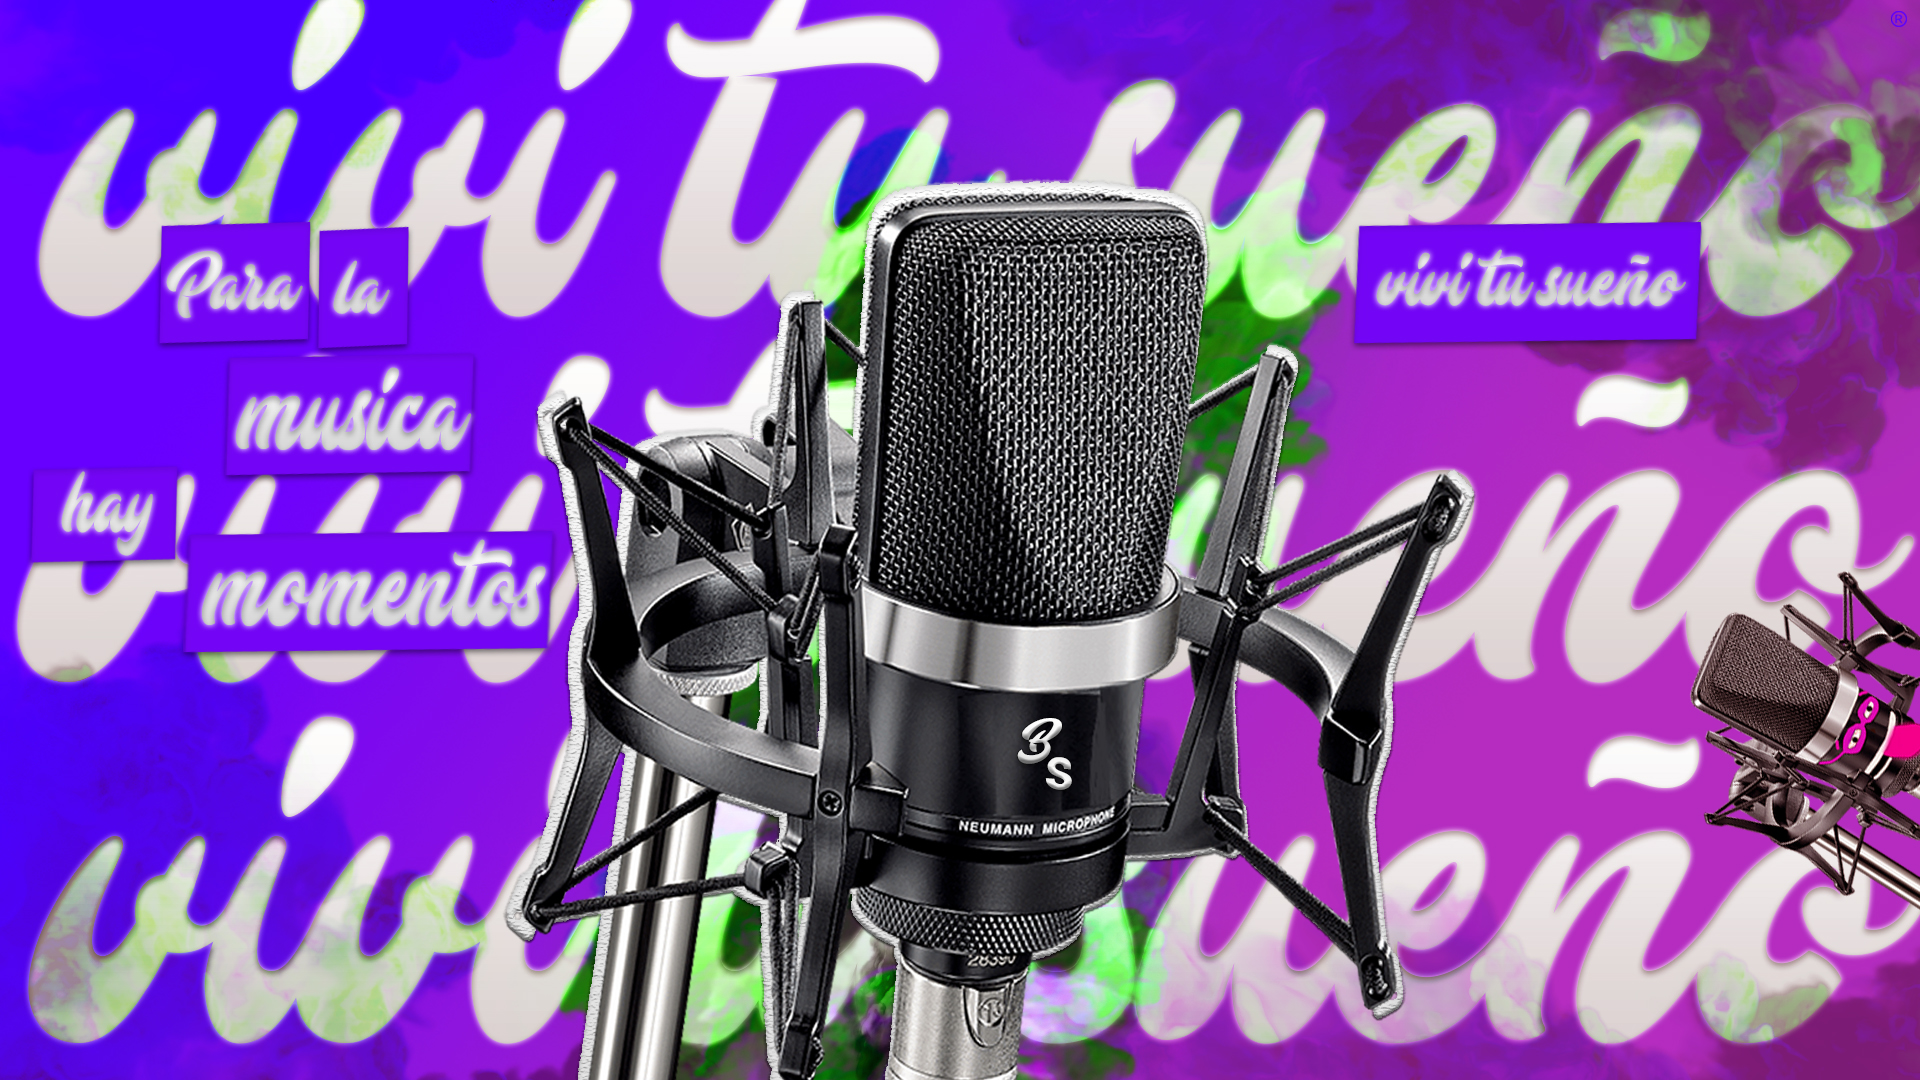
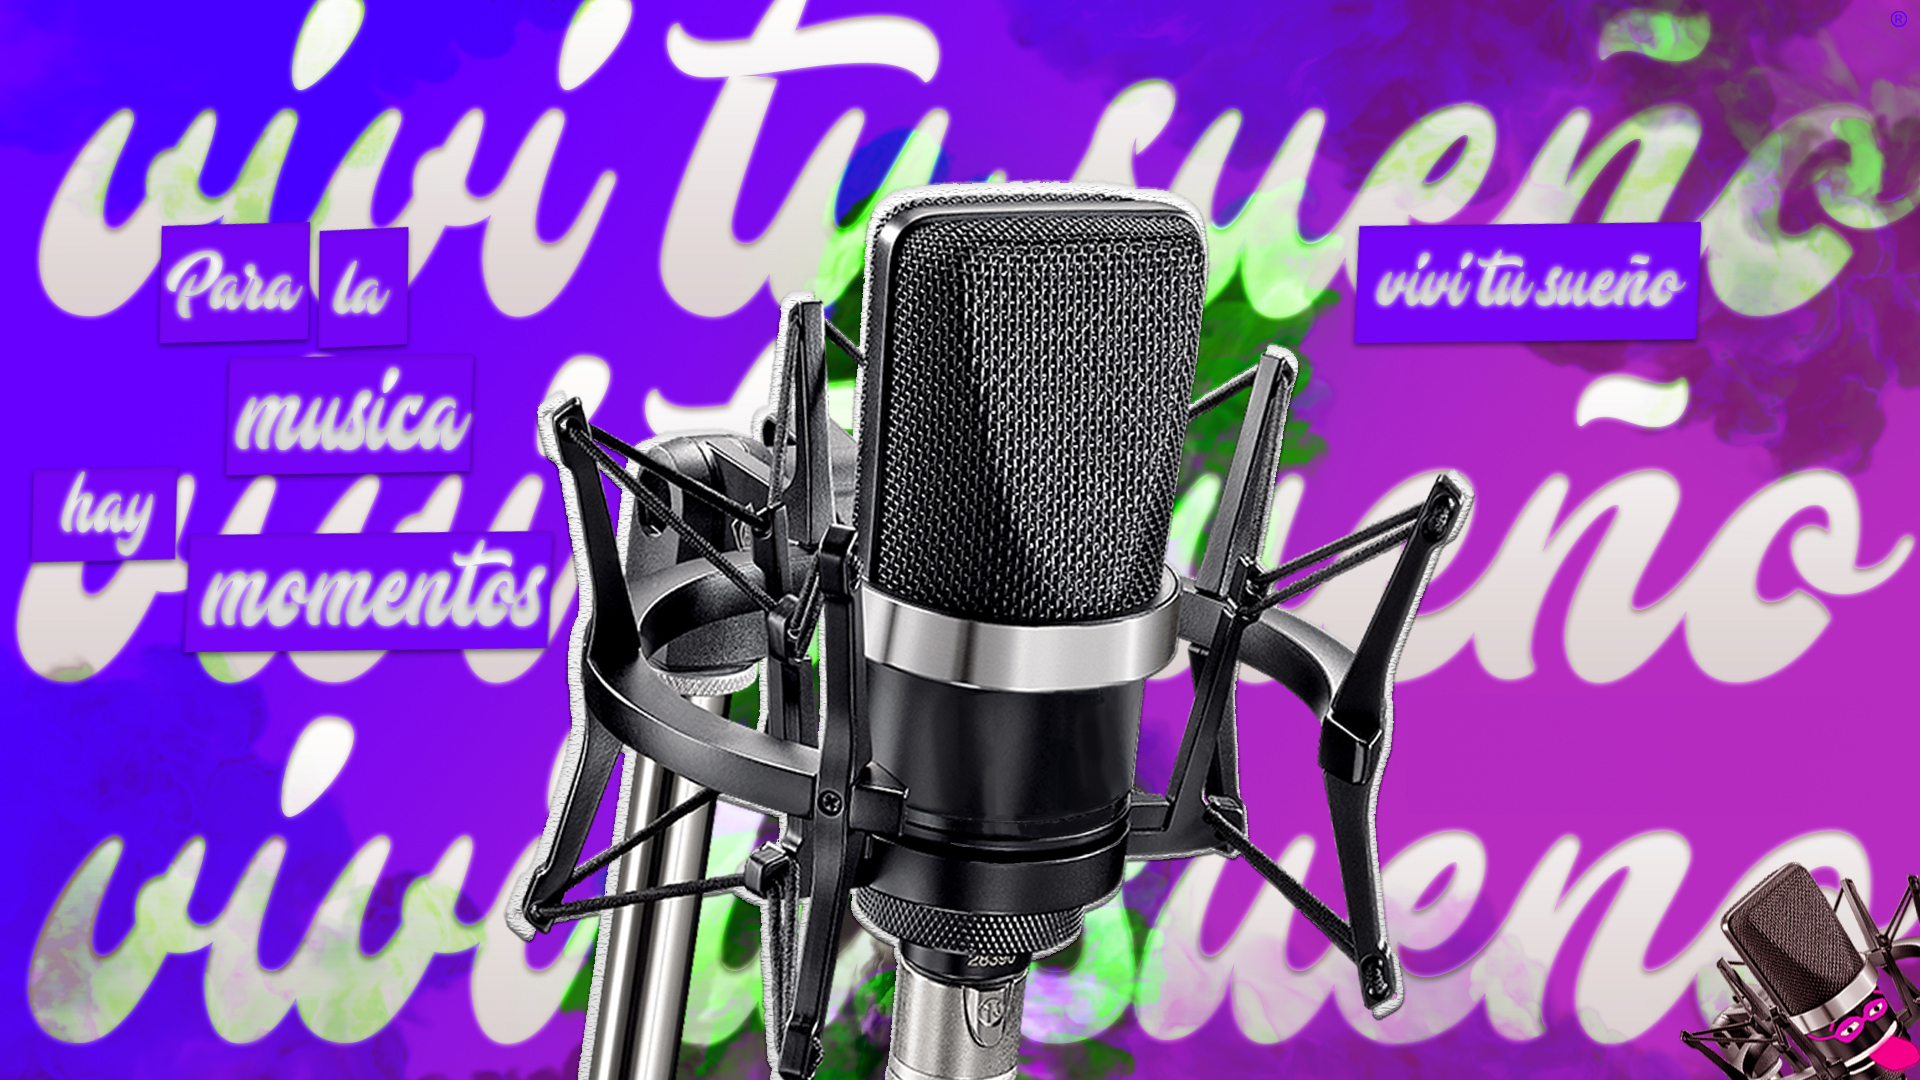
Cambio del header

Changed region(s): [[0.8125, 0.5194, 1.0, 1.0], [0.5, 0.6722, 0.5938, 0.7944]]

diff --git a/styles.css b/styles.css
@@ -11,25 +11,26 @@ body {
 a {
   color: #FFF;
   text-decoration: none;
+  display: flex;
 }
 
 /** Globales */
 .button {
   font-size: 22px;
-  padding: 4px 12px;
+  padding: 6px 12px;
   border: none;
-  border-radius: 4px;
-  background-color: #5c0099;
+  border-radius: 6px;
+  background-color: #560bad;
   color: #FFF;
   cursor: pointer;
   box-shadow: rgba(0, 0, 0, 0.25) 0px 14px 28px, rgba(0, 0, 0, 0.22) 0px 10px 10px;
 }
 .button:hover {
-  opacity: 0.8;
+  background-color: #7209b7;
 }
 
 .navbar {
-  background-color: #3c096c;
+  background-color: #10002B;
   height: 90px;
   display: flex;
   justify-content: space-between;
@@ -60,15 +61,12 @@ a {
 .nav-button {
   font-size: 16px;
   box-shadow: rgba(0, 0, 0, 0.35) 0px 5px 15px;
-  border: 1.4px solid #8a00e6;
 }
 
-
-.bar {
+/* .bar {
   width: auto;
   border: 4px solid #c86bfa;
-}
-
+} */
 
 .hero {
   width: 100%;
@@ -76,7 +74,7 @@ a {
 }
 .hero-img {
   display: flex;
-  height: 872px;
+  height: 878px;
   width: 100%;
   background-color: #000;
   position: relative;
@@ -86,22 +84,24 @@ a {
   gap: 40px;
 }
 .hero-img::before {
-  background-image: url("/assets/img/estudio.jpg");
+  background-image: url("/assets/img/estudio2.jpg");
   background-size: cover;
   background-attachment: local;
   background-repeat: no-repeat;
+  background-position: 100% 0%;
   content: "";
   position: absolute;
   top: 0px;
   right: 0px;
   bottom: 0px;
   left: 0px;
-  /* opacity: 0.4; */
+  opacity: 0.8;
 }
 .hero-logo-cont {
-  width: 140px;
-  height: 140px;
-  background-color: rgb(255, 147, 10);
+  width: 160px;
+  height: 160px;
+  background-color: rgba(255, 147, 10, 0.8);
+  /* background-color: #FFF; */
   border-radius: 50%;
   padding: 20px 20px;
   position: relative;
@@ -110,7 +110,7 @@ a {
   align-items: center;
 }
 .hero-logo {
-  width: 120px;
+  width: 140px;
   position: relative;
 
 }
@@ -121,9 +121,9 @@ a {
   text-align: center;
   font-size: 30px;
   width: 52%;
-  font-weight: 700;
+  font-weight: 500;
   font-family: 'Fjalla One', sans-serif;
-  padding: 4px 0;
+  padding: 4px;
   border-radius: 2px;
   background-color: rgba(0, 0, 0, 0.4);
   box-shadow: rgba(0, 0, 0, 0.25) 0px 14px 28px, rgba(0, 0, 0, 0.22) 0px 10px 10px;
@@ -138,11 +138,11 @@ a {
 .hero-button {
   width: 160px;
   padding: 8px 20px 8px 20px;
-  font-size: 22px;
-  font-weight: 700;
+  font-size: 20px;
+  /* font-weight: 700; */
 }
 
-.explore {
+/* .explore {
   width: 100%;
   position: relative;
 }
@@ -167,7 +167,6 @@ a {
   right: 0px;
   bottom: 0px;
   left: 0px;
-  /* opacity: 0.8; */
 }
 
 .explore-form {
@@ -206,53 +205,5 @@ a {
 
 .explore-button-img {
   width: 50px;
-  border: 2px solid transparent;
   border: none;
-}
-.explore-button-img:hover {
-  border: 2px solid transparent;
-  width: 42px;
-}
-
-/* .explore {
-  width: 100%;
-  overflow: hidden;
-  position: relative;
-}
-.explore-img {
-  display: flex;
-  height: 560px;
-  width: 100%;
-  background-color: #000;
-  position: relative;
-  justify-content: center;
-  align-items: center;
-  flex-direction: column;
-  gap: 30px;
-  clip-path: polygon(0 0, 100% 0, 100% 100%);
-  z-index: 100;
-}
-.explore-img::before {
-  background-image: url("/assets/img/microfono.jpg");
-  background-size: cover;
-  background-attachment: local;
-  background-repeat: no-repeat;
-  content: "";
-  position: absolute;
-  top: 0px;
-  right: 0px;
-  bottom: 0px;
-  left: 0px;
-  opacity: 0.4;
-}
-.border {
-  height: 560px;
-  width: 100%;
-  background-color: #f8f9fa;
-  clip-path: polygon(0 0, 100% 0, 100% 100%);
-  position: absolute;
-  top: 0px;
-  right: -6px;
-  bottom: -6px;
-  left: -6px;
 } */

diff --git a/index.html b/index.html
@@ -15,17 +15,17 @@
 </head>
 <body>
   <nav class="navbar">
-    <div class="logo">
+    <a href="/">
       <img class="logo-img" src="/assets/img/icono-blanco.png" alt="imagen logo beatstore">
-    </div>
+    </a>
     <div class="nav-items">
       <div class="nav-links">
         <a class="nav-link" href="">Inicio</a>
-        <a class="nav-link" href="">Catalogo</a>
-        <a class="nav-link" href="">Perfil</a>
+        <a class="nav-link" href="">Beats</a>
+        <a class="nav-link" href="">Generos</a>
       </div>
       <div>
-        <button class="button nav-button">Subir</button>
+        <button class="button nav-button">Vender</button>
       </div>
     </div>
   </nav>
@@ -41,8 +41,8 @@
       <h1 class="hero-text">Compra y vende tus beats de alta calidad en Argentina a través de nuestra comunidad de productores musicales</h1>
     </div>
   </div>
-  <div class="bar"></div>
-  <section class="explore">
+  <!-- <div class="bar"></div> -->
+  <!-- <section class="explore">
     <div class="explore-img">
       <form class="explore-form">
         <input class="explore-input" type="text" placeholder="Buscar">
@@ -51,10 +51,6 @@
         </button>
       </form>
     </div>
-  </section>
-  <!-- <section class="explore">
-    <div class="explore-img"></div>
-    <div class="border"></div>
   </section> -->
 </body>
 </html>
